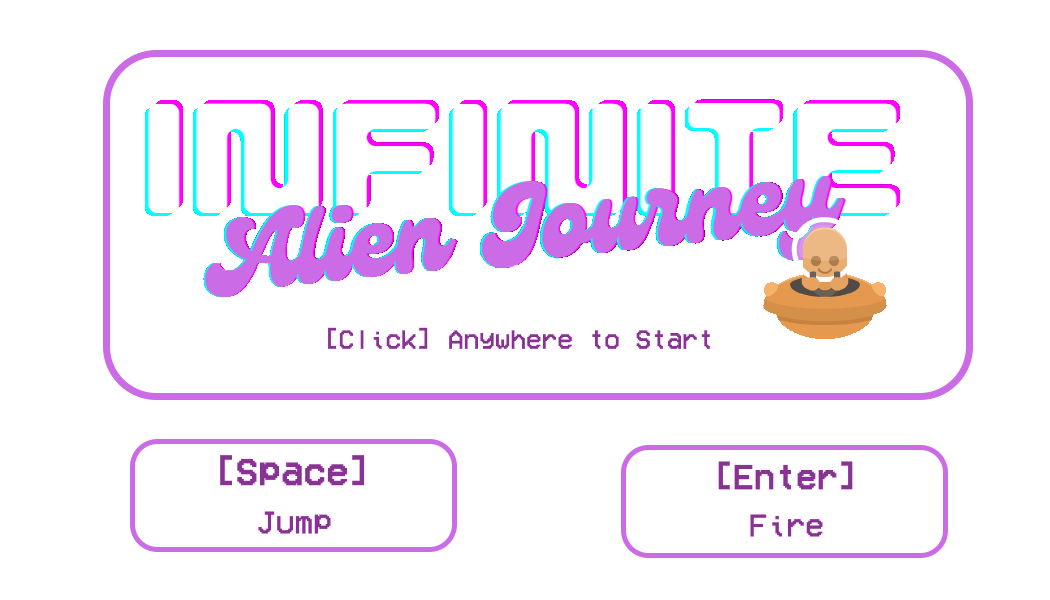
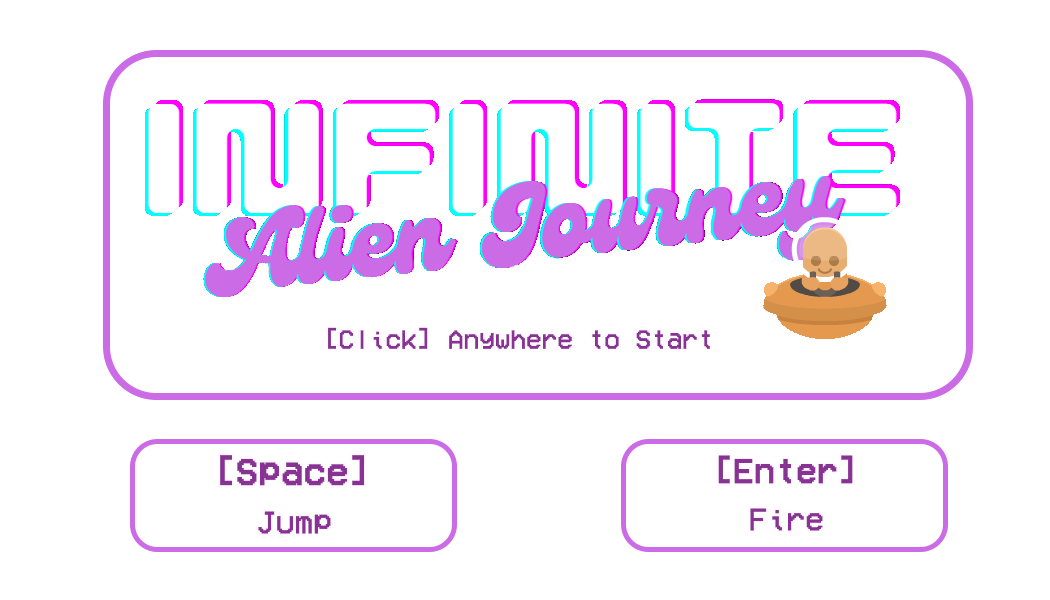
GP - Add Credits

Changed region(s): [[0.579, 0.72, 0.9143, 0.93]]

diff --git a/GameTest/Gameplay/GameManager.cpp b/GameTest/Gameplay/GameManager.cpp
@@ -128,6 +128,17 @@ void GameManager::Render()
 			{
 				m_SpritePreStart->Draw();
 			}
+
+			//Credits 
+
+			char textLaulau[64];
+			char textUbi[64];
+
+			sprintf(textLaulau, "Created by : (c) Laurelenn Sangare - 2023-2024");
+			sprintf(textUbi, "Thanks to : Ronan Bel, DAU Team");
+
+			App::Print(APP_VIRTUAL_WIDTH*0.05f, APP_VIRTUAL_HEIGHT /20.f, textLaulau, 1.0f, 1.0f, 1.0f, GLUT_BITMAP_HELVETICA_12);
+			App::Print(APP_VIRTUAL_WIDTH * 0.85f, APP_VIRTUAL_HEIGHT/20.f, textUbi, 1.0f, 1.0f, 1.0f, GLUT_BITMAP_HELVETICA_12);
 			break;
 
 		case(EGameState::Started):
@@ -174,6 +185,7 @@ void GameManager::Render()
 				char textDistance[64];
 				char textBonus[64];
 				char textMalus[64];
+
 				sprintf(textScore, "%d", m_Score);
 				sprintf(textDistance, "%dm", m_DistanceReached);
 				sprintf(textBonus, "%d", m_KillBonus);
@@ -184,6 +196,17 @@ void GameManager::Render()
 				App::Print(APP_VIRTUAL_WIDTH / 2.05f, APP_VIRTUAL_HEIGHT / 3.6f, textBonus, 1.0f, 1.0f, 1.0f, GLUT_BITMAP_TIMES_ROMAN_24);
 				App::Print(APP_VIRTUAL_WIDTH / 2.05f, APP_VIRTUAL_HEIGHT / 5.f, textMalus, 1.0f, 1.0f, 1.0f, GLUT_BITMAP_TIMES_ROMAN_24);
 
+
+				//Credits 
+
+				char textLaulau[64];
+				char textUbi[64];
+
+				sprintf(textLaulau, "Created by : (c) Laurelenn Sangare - 2023-2024");
+				sprintf(textUbi, "Thanks to : Ronan Bel, DAU Team");
+
+				App::Print(APP_VIRTUAL_WIDTH * 0.05f, APP_VIRTUAL_HEIGHT / 20.f, textLaulau, 1.0f, 1.0f, 1.0f, GLUT_BITMAP_HELVETICA_12);
+				App::Print(APP_VIRTUAL_WIDTH * 0.85f, APP_VIRTUAL_HEIGHT / 20.f, textUbi, 1.0f, 1.0f, 1.0f, GLUT_BITMAP_HELVETICA_12);
 			}
 			break;
 	}
